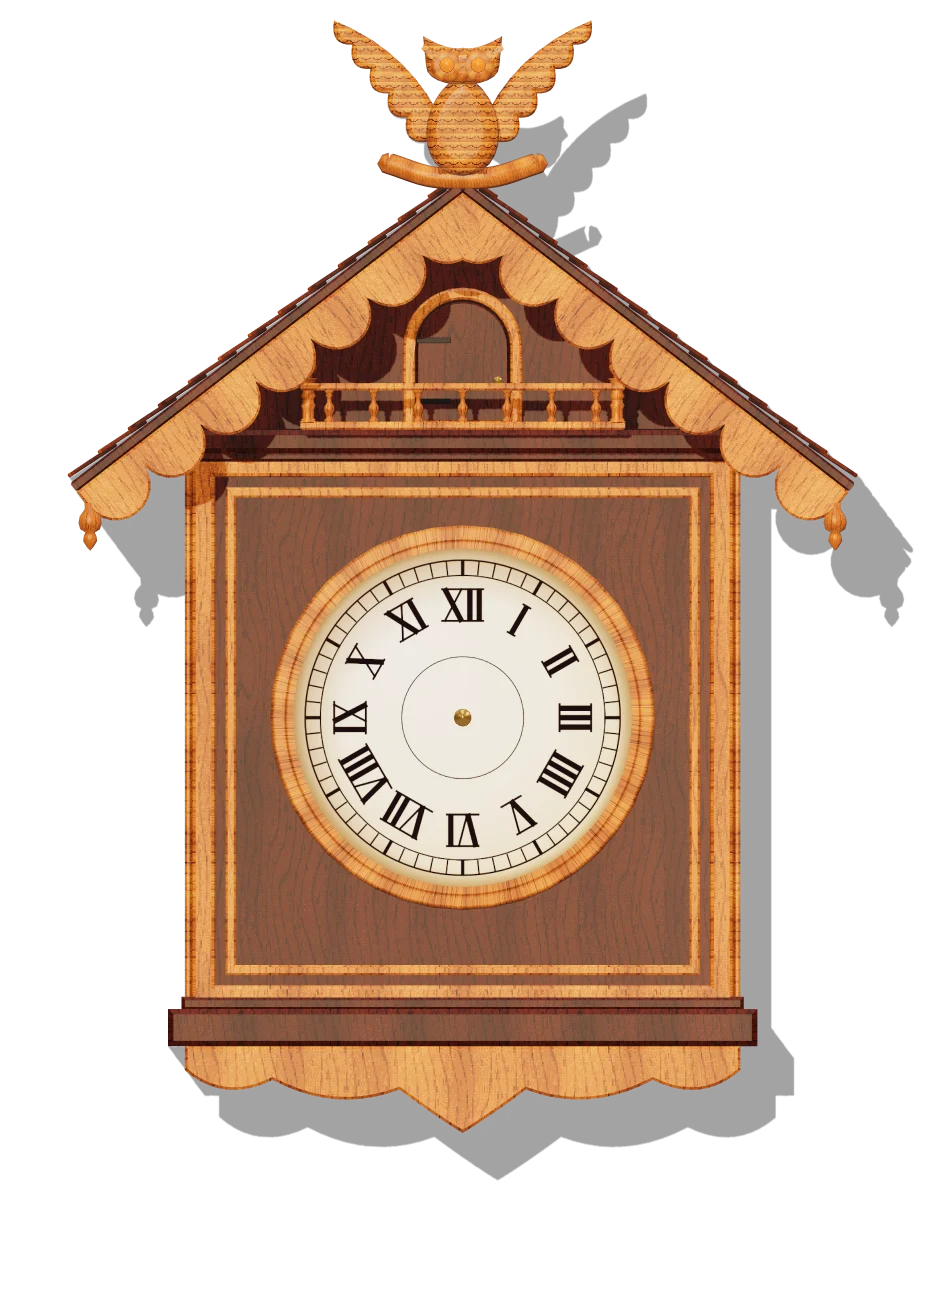
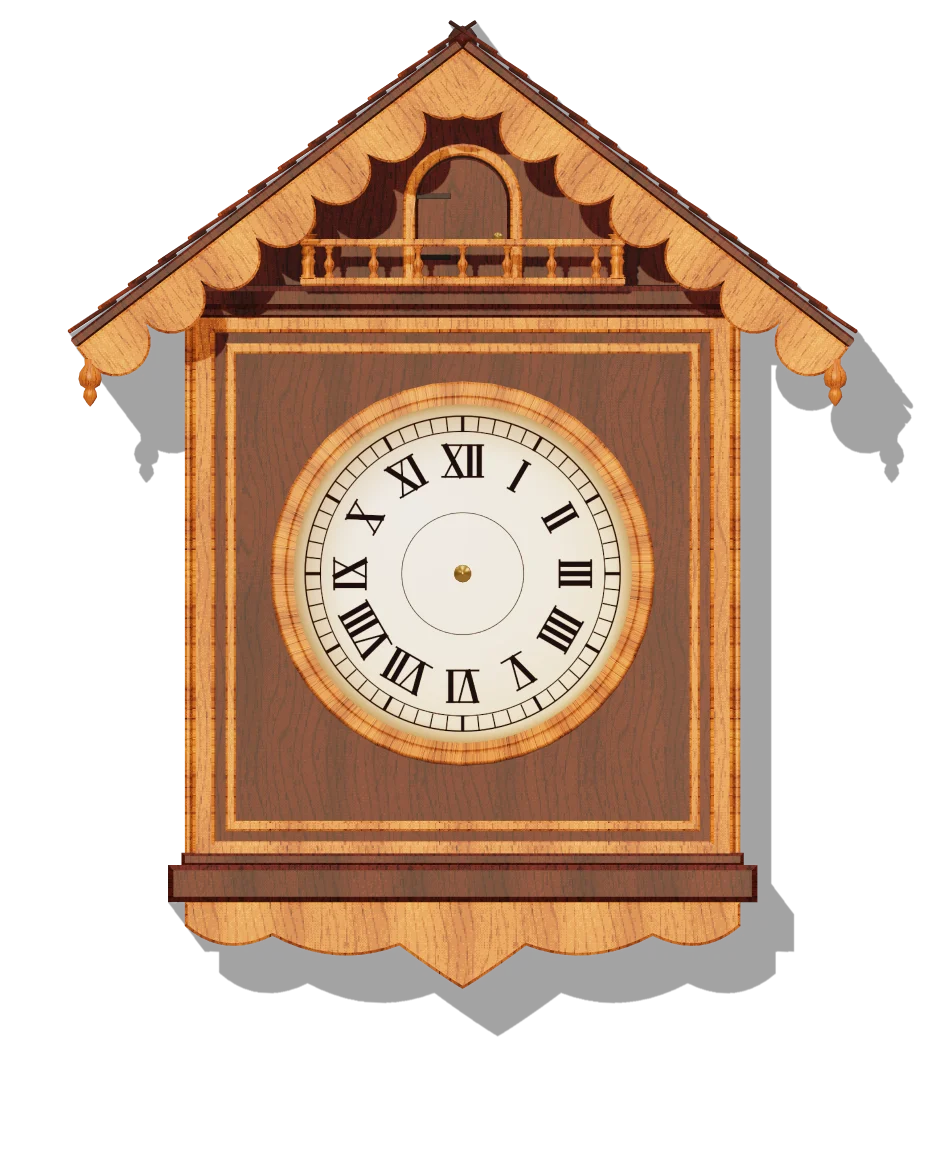
Loading and office clock: no carved owl crest on the roof (re-baked boot images)
Claude-Session: https://claude.ai/code/session_01N97LkrCm8fhfTY3mzxuNCj

diff --git a/index.html b/index.html
@@ -19,35 +19,35 @@
     <canvas id="world"></canvas>
     <div id="ui"></div>
     <!-- boot:begin (generated by src/onboard/clockbake.ts via src/onboard/tools/bootbake.mjs; edit the generator, not this block) -->
-    <style>#boot{--k:min(calc(88vw / 204.9),calc(84vh / 373.56));font-size:var(--k);position:fixed;inset:0;z-index:99;overflow:hidden;display:flex;align-items:center;justify-content:center;
+    <style>#boot{--k:min(calc(88vw / 204.9),calc(84vh / 341.67));font-size:var(--k);position:fixed;inset:0;z-index:99;overflow:hidden;display:flex;align-items:center;justify-content:center;
 background:radial-gradient(ellipse 120% 100% at 50% 46%,rgba(2,8,5,0) 38%,rgba(2,8,5,.42) 72%,rgba(2,8,5,.86) 100%),#143a2a;
 user-select:none;-webkit-user-select:none;-webkit-tap-highlight-color:transparent;transition:opacity .7s}
 #boot.gone:not(.hold):not(.js){opacity:0;pointer-events:none}
 #boot *{position:absolute;display:block;-webkit-user-drag:none;pointer-events:none}
-#boot .bt-pool{width:307.35em;height:392.24em;left:50%;top:50%;margin:-209.19em 0 0 -153.68em;background:radial-gradient(closest-side,rgba(255,190,110,.34),rgba(255,180,96,.2) 40%,rgba(255,170,90,.07) 72%,rgba(255,170,90,0));animation:bt-flick 4s ease-in-out infinite}
+#boot .bt-pool{width:307.35em;height:358.75em;left:50%;top:50%;margin:-191.34em 0 0 -153.68em;background:radial-gradient(closest-side,rgba(255,190,110,.34),rgba(255,180,96,.2) 40%,rgba(255,170,90,.07) 72%,rgba(255,170,90,0));animation:bt-flick 4s ease-in-out infinite}
 #boot .bt-mote{width:1.6em;height:1.6em;border-radius:50%;background:radial-gradient(#fff2c8,rgba(255,216,144,0) 70%);opacity:0;animation:bt-mote 9s ease-in-out infinite}
-#boot .bt-stage{position:relative;width:204.9em;height:373.56em;flex:none;transform-origin:50% 42.54%;opacity:0;transition:opacity .4s}
+#boot .bt-stage{position:relative;width:204.9em;height:341.67em;flex:none;transform-origin:50% 37.18%;opacity:0;transition:opacity .4s}
 #boot.lit .bt-stage{opacity:1}
-#boot .bt-case{left:0em;top:0em;width:205.043em;height:286.529em}
-#boot .bt-door{left:81.929em;top:60.893em;width:36.757em;height:36.979em;background:url(img/boot/door.webp) 0 0/220.54em 36.98em no-repeat}
-#boot .bt-dial{left:58.162em;top:114.626em;width:88.571em;height:88.571em;border-radius:50%;object-fit:cover;object-position:0 0}
-#boot .bt-h{left:58.162em;top:114.626em;width:88.571em;height:88.571em;animation:bt-turn 3600s linear calc(var(--tm,0)*-1s) infinite;filter:drop-shadow(.5em .9em .5em rgba(20,10,4,.45))}
+#boot .bt-case{left:0em;top:0em;width:205.043em;height:254.643em}
+#boot .bt-door{left:79.493em;top:29.671em;width:45.836em;height:36.314em;background:url(img/boot/door.webp) 0 0/275.02em 36.31em no-repeat}
+#boot .bt-dial{left:58.162em;top:82.74em;width:88.571em;height:88.571em;border-radius:50%;object-fit:cover;object-position:0 0}
+#boot .bt-h{left:58.162em;top:82.74em;width:88.571em;height:88.571em;animation:bt-turn 3600s linear calc(var(--tm,0)*-1s) infinite;filter:drop-shadow(.5em .9em .5em rgba(20,10,4,.45))}
 #boot .bt-hh{background:url(img/boot/dial.webp) -88.57em 0/265.71em 88.57em no-repeat;animation-duration:43200s;animation-delay:calc(var(--th,0)*-1s)}
 #boot .bt-mh{background:url(img/boot/dial.webp) -177.14em 0/265.71em 88.57em no-repeat}
-#boot .bt-boss{left:100.05em;top:156.52em;width:4.8em;height:4.8em;border-radius:50%;background:url(img/boot/dial.webp) -41.89em -41.89em/265.71em 88.57em no-repeat}
[1 lines of base64/hex data omitted]
+#boot .bt-boss{left:100.05em;top:124.62em;width:4.8em;height:4.8em;border-radius:50%;background:url(img/boot/dial.webp) -41.89em -41.88em/265.71em 88.57em no-repeat}
[1 lines of base64/hex data omitted]
 #boot .bt-wt,#boot .bt-rg{--d:1;animation:bt-wt 26s linear forwards}
 #boot .bt-rg{--d:-1}
[6 lines of base64/hex data omitted]
 #boot .bt-wt::before{left:9.08em;bottom:54.48em}
-#boot .bt-rg::before{left:3.29em;bottom:15.73em}
-#boot .bt-wt.w0{left:68.2em;top:253.75em}
-#boot .bt-rg.w0{left:62.44em;top:314.88em}
-#boot .bt-wt.w1{left:114.7em;top:253.75em}
-#boot .bt-rg.w1{left:132.04em;top:314.88em}
-#boot .bt-tap{left:120.45em;top:175.42em;width:24em;height:24em;margin:-12em 0 0 -12em;border-radius:50%;border:1.6em solid #ffe9b0;box-shadow:0 0 0 .9em rgba(20,12,16,.55),inset 0 0 0 .9em rgba(20,12,16,.55);opacity:0}
+#boot .bt-rg::before{left:3.29em;bottom:15.74em}
+#boot .bt-wt.w0{left:68.2em;top:221.86em}
+#boot .bt-rg.w0{left:62.44em;top:282.99em}
+#boot .bt-wt.w1{left:114.7em;top:221.86em}
+#boot .bt-rg.w1{left:132.04em;top:282.99em}
+#boot .bt-tap{left:120.45em;top:143.52em;width:24em;height:24em;margin:-12em 0 0 -12em;border-radius:50%;border:1.6em solid #ffe9b0;box-shadow:0 0 0 .9em rgba(20,12,16,.55),inset 0 0 0 .9em rgba(20,12,16,.55);opacity:0}
 #boot .bt-note{width:9em;height:12em;opacity:0}
 #boot.ready{cursor:pointer}
 #boot.ready *{pointer-events:none}
@@ -62,7 +62,7 @@ user-select:none;-webkit-user-select:none;-webkit-tap-highlight-color:transparen
 @keyframes bt-tap{0%{opacity:0;transform:scale(.55)}25%{opacity:.95}100%{opacity:0;transform:scale(1.25)}}
 @keyframes bt-note{0%{opacity:1;transform:translate(0,0) rotate(0)}70%{opacity:1}100%{opacity:0;transform:translate(var(--dx),var(--dy)) rotate(14deg)}}
 @media (prefers-reduced-motion:reduce){#boot *:not(.bt-h){animation-duration:0s!important;animation-iteration-count:1!important}}</style>
-    <div id="boot" role="progressbar" aria-label="Loading" data-art='{"cx":102.45,"dy":158.92,"rd":37.5,"w":204.9,"sh":373.56,"dw":36.76,"wt":55.35}'>
+    <div id="boot" role="progressbar" aria-label="Loading" data-art='{"cx":102.45,"dy":127.02,"rd":37.5,"w":204.9,"sh":341.67,"dw":45.84,"wt":55.35}'>
       <i class="bt-pool"></i><i class="bt-mote" style="left:calc(50% + -60em);top:calc(50% + 40em);animation-delay:0s"></i><i class="bt-mote" style="left:calc(50% + 56em);top:calc(50% + 12em);animation-delay:-2.1s"></i><i class="bt-mote" style="left:calc(50% + -28em);top:calc(50% + -52em);animation-delay:-4.4s"></i><i class="bt-mote" style="left:calc(50% + 70em);top:calc(50% + -70em);animation-delay:-6.2s"></i><i class="bt-mote" style="left:calc(50% + -80em);top:calc(50% + -10em);animation-delay:-1.3s"></i><i class="bt-mote" style="left:calc(50% + 18em);top:calc(50% + 80em);animation-delay:-3.6s"></i><i class="bt-mote" style="left:calc(50% + 40em);top:calc(50% + -90em);animation-delay:-7.7s"></i><i class="bt-mote" style="left:calc(50% + -46em);top:calc(50% + 90em);animation-delay:-5.1s"></i>
       <div class="bt-stage">
         <i class="bt-pend"></i>
@@ -72,7 +72,7 @@ user-select:none;-webkit-user-select:none;-webkit-tap-highlight-color:transparen
         <img class="bt-dial" src="img/boot/dial.webp" alt="" />
         <i class="bt-h bt-hh"></i><i class="bt-h bt-mh"></i><i class="bt-boss"></i>
         <i class="bt-tap"></i>
-        <svg class="bt-note" style="left:72.45em;top:67.87em;--dx:-12em;--dy:-18em" viewBox="0 0 14 18"><path d="M5.5 14.2a3 2.3-22 1 1-.9-2.6V2l7.4 2v3.4L6.6 5.6v8.4z" fill="#ffd978" stroke="#140c10" stroke-width="1.3" stroke-linejoin="round"/></svg><svg class="bt-note" style="left:120.45em;top:63.87em;--dx:13em;--dy:-20em" viewBox="0 0 14 18"><path d="M5.5 14.2a3 2.3-22 1 1-.9-2.6V2l7.4 2v3.4L6.6 5.6v8.4z" fill="#ffd978" stroke="#140c10" stroke-width="1.3" stroke-linejoin="round"/></svg><svg class="bt-note" style="left:94.95em;top:55.87em;--dx:-3em;--dy:-24em" viewBox="0 0 14 18"><path d="M5.5 14.2a3 2.3-22 1 1-.9-2.6V2l7.4 2v3.4L6.6 5.6v8.4z" fill="#ffd978" stroke="#140c10" stroke-width="1.3" stroke-linejoin="round"/></svg>
+        <svg class="bt-note" style="left:72.45em;top:35.97em;--dx:-12em;--dy:-18em" viewBox="0 0 14 18"><path d="M5.5 14.2a3 2.3-22 1 1-.9-2.6V2l7.4 2v3.4L6.6 5.6v8.4z" fill="#ffd978" stroke="#140c10" stroke-width="1.3" stroke-linejoin="round"/></svg><svg class="bt-note" style="left:120.45em;top:31.97em;--dx:13em;--dy:-20em" viewBox="0 0 14 18"><path d="M5.5 14.2a3 2.3-22 1 1-.9-2.6V2l7.4 2v3.4L6.6 5.6v8.4z" fill="#ffd978" stroke="#140c10" stroke-width="1.3" stroke-linejoin="round"/></svg><svg class="bt-note" style="left:94.95em;top:23.97em;--dx:-3em;--dy:-24em" viewBox="0 0 14 18"><path d="M5.5 14.2a3 2.3-22 1 1-.9-2.6V2l7.4 2v3.4L6.6 5.6v8.4z" fill="#ffd978" stroke="#140c10" stroke-width="1.3" stroke-linejoin="round"/></svg>
       </div>
     </div>
     <script>(function(){try{var d=new Date(),m=d.getMinutes()*60+d.getSeconds()+d.getMilliseconds()/1e3,b=document.getElementById('boot'),s=b.style;s.setProperty('--tm',m.toFixed(1));s.setProperty('--th',((d.getHours()%12)*3600+m).toFixed(1));var n=0,im=b.querySelectorAll('img'),on=function(){b.classList.add('lit')},one=function(){if(++n>=im.length)on()};for(var i=0;i<im.length;i++){if(im[i].complete)one();else{im[i].addEventListener('load',one);im[i].addEventListener('error',one)}}setTimeout(on,4000)}catch(e){}})()</script>

diff --git a/src/world/stages/cuckoo.ts b/src/world/stages/cuckoo.ts
@@ -519,11 +519,12 @@ export class CuckooStage implements Stage {
     brass.push({ geo: K.turned([[0.0005, 0], [0.013, 0], [0.012, 0.004], [0.007, 0.008], [0.004, 0.012], [0.0005, 0.013]], 14, 20), m: mtx(0, DIAL.y, CD + 0.025, Math.PI / 2, 0, 0) });
     // ---- merge and add
     const woodG = K.carveShade(K.merge(wood), { lo: 0.5 });
-    const carveG = K.carveShade(K.merge([...carve, { geo: crest.geo }]), { lo: 0.36 });
-    const featherG = K.carveShade(crest.feather, { lo: 0.45 });
-    S.add(this.mesh(woodG, this.M.wood), this.mesh(carveG, this.M.carve), this.mesh(featherG, this.M.feather));
+    // the plain clock (loading screen, office) has no carved owl crest on the roof
+    const carveG = K.carveShade(K.merge(this.plain ? carve : [...carve, { geo: crest.geo }]), { lo: 0.36 });
+    S.add(this.mesh(woodG, this.M.wood), this.mesh(carveG, this.M.carve));
+    if (!this.plain) S.add(this.mesh(K.carveShade(crest.feather, { lo: 0.45 }), this.M.feather));
     if (leaves.length) S.add(this.mesh(K.carveShade(K.merge(leaves), { lo: 0.22, z0: CD, z1: CD + 0.035 }), this.M.leaf));
-    S.add(this.mesh(crest.eyes, this.M.glass, false, false));
+    if (!this.plain) S.add(this.mesh(crest.eyes, this.M.glass, false, false));
     S.add(this.mesh(K.merge(brass), this.M.brass));
     if (nut.length) S.add(this.mesh(K.carveShade(K.merge(nut), { lo: 0.5 }), this.M.carve), this.mesh(K.carveShade(K.merge(cup), { lo: 0.3, hi: 0.75 }), this.M.wood));
     nutG.dispose(); cupG.dispose();
@@ -545,7 +546,7 @@ export class CuckooStage implements Stage {
     this.pick(doorM, 'door');
     // pick boxes: the gable and balcony, the crest
     this.hitBox(0.4, 0.32, 0.2, v3(0, DOOR.y + 0.11, 0.3), 'door');
-    this.hitBox(0.44, 0.34, 0.14, v3(0, RIDGE + 0.15, ROOF_Z - 0.02), 'crest');
+    if (!this.plain) this.hitBox(0.44, 0.34, 0.14, v3(0, RIDGE + 0.15, ROOF_Z - 0.02), 'crest');
     return { hour, minute };
   }
 
